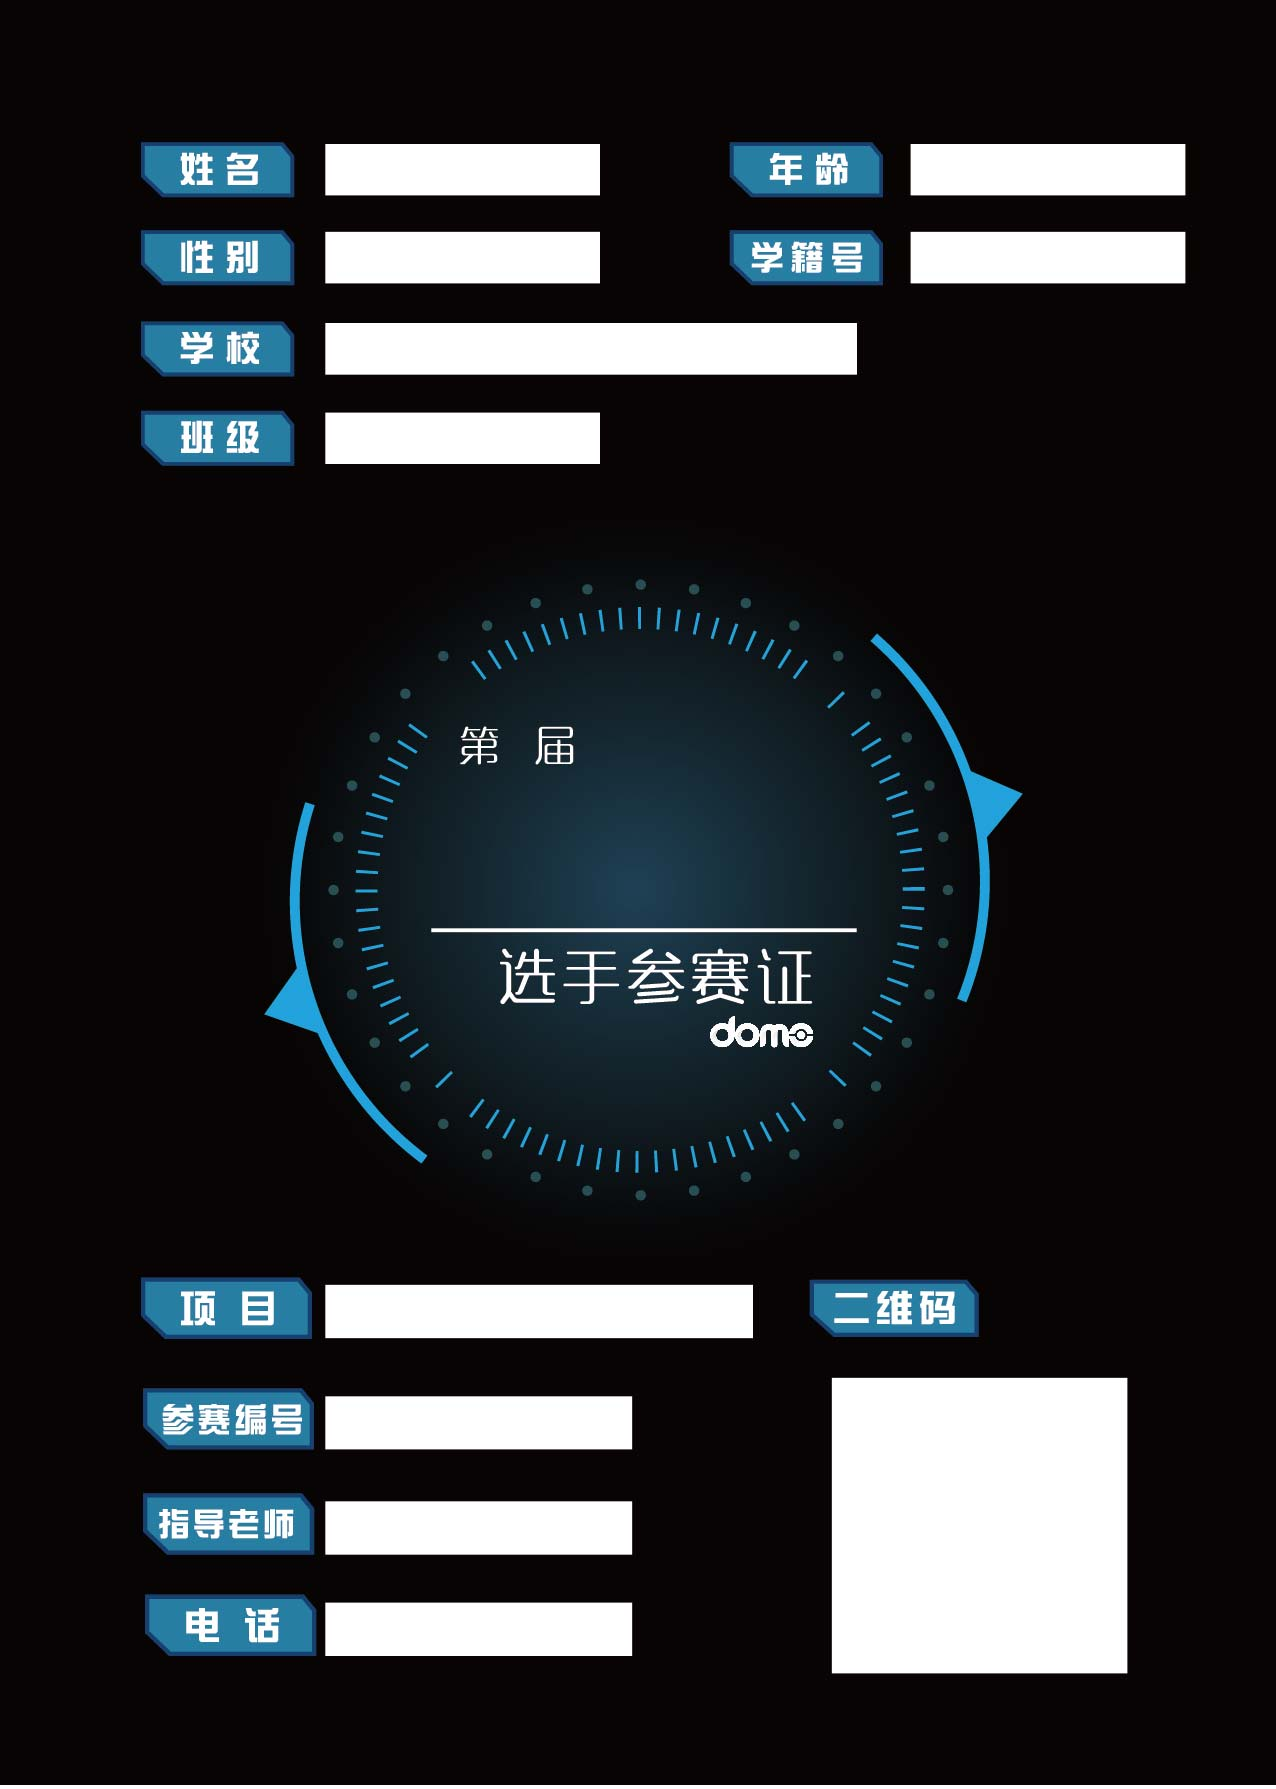
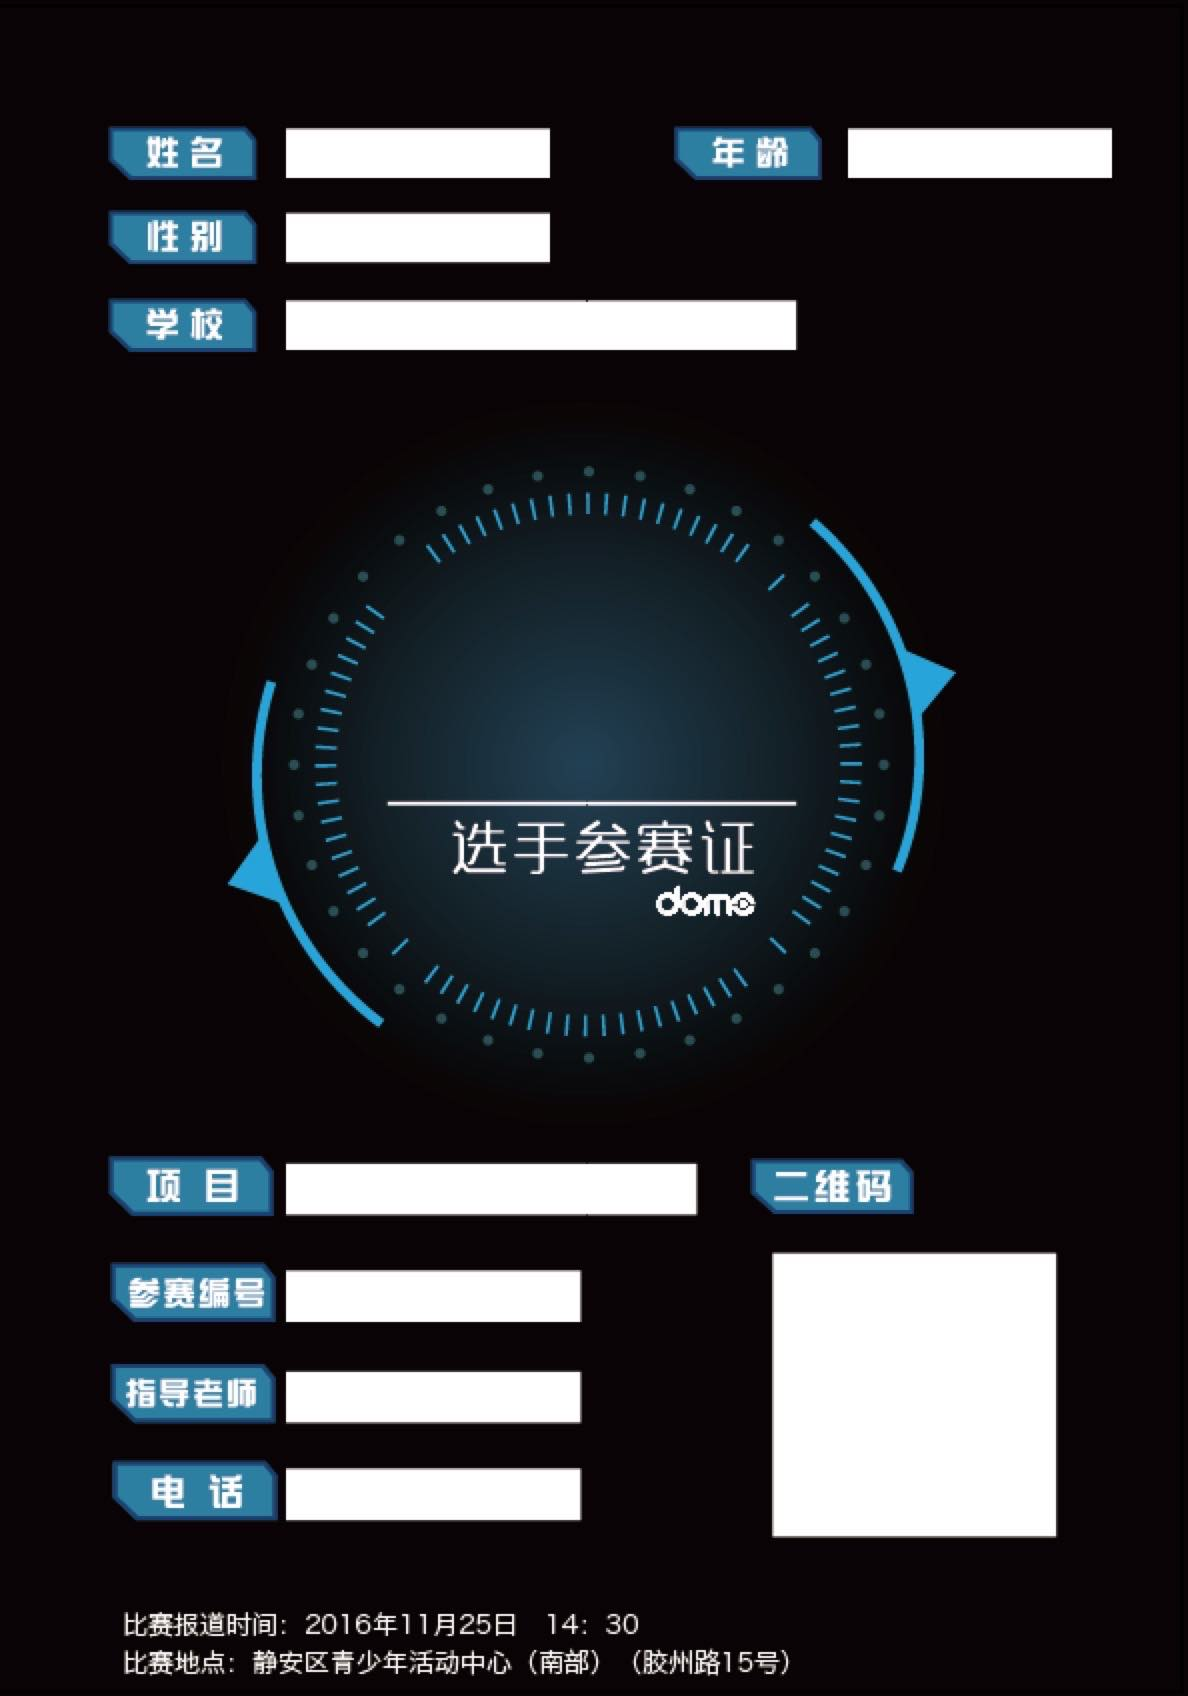
comp voucher

diff --git a/app/assets/javascripts/comp_voucher.js b/app/assets/javascripts/comp_voucher.js
@@ -36,24 +36,22 @@ function download_comp_voucher(user_info) {
 
         var back_image = document.getElementById("use-voucher");
         ctx.drawImage(back_image, 0, 0);
-        ctx.fillText(user["username"], 360, 180);
-        ctx.fillText(age, 930, 180);
-        ctx.fillText(user_gender, 360, 270);
-        ctx.fillText(user["student_code"], 930, 270);
-        ctx.fillText(user["school_name"], 360, 360);
-        ctx.fillText(user["bj"], 360, 450);
-        ctx.fillText(user["event_name"], 380, 1322);
-        ctx.fillText(user["identifier"], 380, 1435);
-        ctx.fillText(user["teacher"], 380, 1540);
-        ctx.fillText(user["teacher_mobile"], 380, 1640);
+        ctx.fillText(user["username"], 300, 165);
+        ctx.fillText(age, 880, 165);
+        ctx.fillText(user_gender, 300, 250);
+        ctx.fillText(user["school_name"], 300, 338);
+        ctx.fillText(user["event_name"], 300, 1198);
+        ctx.fillText(user["identifier"], 300, 1308);
+        ctx.fillText(user["teacher"], 300, 1408);
+        ctx.fillText(user["teacher_mobile"], 300, 1505);
         ctx.font = "Normal 50px Arial";
         ctx.fillStyle = "white";
-        ctx.fillText(user["comp_name"], 430, 900);
+        ctx.fillText(user["comp_name"], 380, 765);
 
         var qrcode_canvas = $("#qrcodeCanvas").find("canvas")[0];
         var qrcode_image = new Image();
         qrcode_image.src = qrcode_canvas.toDataURL("image/jpeg");
-        ctx.drawImage(qrcode_image, 850, 1400);
+        ctx.drawImage(qrcode_image, 785, 1266);
         var all_img = new Image();
         all_img.src = canvas.toDataURL("image/jpeg");
 
